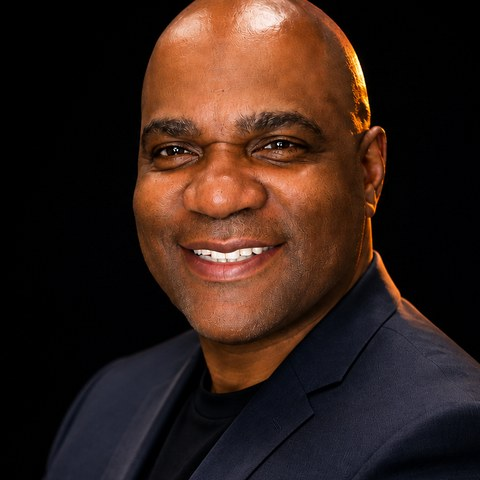
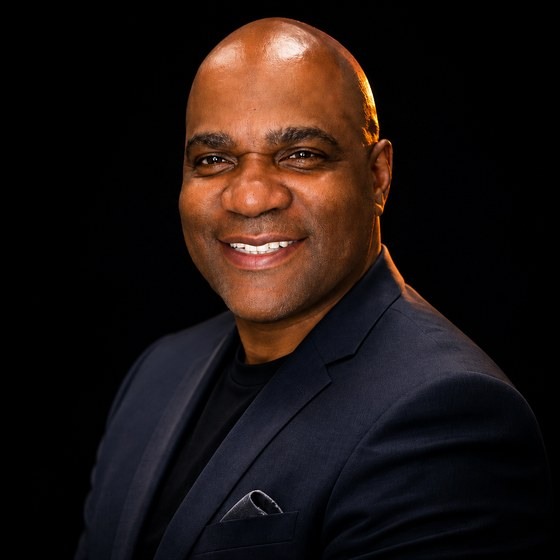
About: larger circle with the full head and shoulders inside it; new leadership overview
Claude-Session: https://claude.ai/code/session_01LsKsXLdSPECyPovwqmVun1

diff --git a/website/app/about/page.tsx b/website/app/about/page.tsx
@@ -70,7 +70,7 @@ export default function AboutPage() {
           <p className={EYEBROW}>Leadership</p>
           <div className="mt-6 flex max-w-[760px] flex-col items-start gap-6 rounded-[24px] sm:flex-row sm:items-center border border-line bg-white p-7">
             {FOUNDER.photo ? (
-              <img src={FOUNDER.photo} alt={FOUNDER.name} className="h-[150px] w-[150px] shrink-0 rounded-full object-cover md:h-[180px] md:w-[180px]" />
+              <img src={FOUNDER.photo} alt={FOUNDER.name} className="h-[170px] w-[170px] shrink-0 rounded-full bg-black object-cover md:h-[210px] md:w-[210px]" />
             ) : (
               <span aria-hidden="true" className="flex h-[88px] w-[88px] shrink-0 items-center justify-center rounded-full bg-ink font-display text-2xl font-bold text-white">
                 LB
@@ -79,7 +79,7 @@ export default function AboutPage() {
             <div className="min-w-0">
               <p className="text-[22px] font-bold">Lorenzo Bell Jr.</p>
               <p className="mt-0.5 text-base font-bold text-brand-text">Founder &amp; CEO</p>
-              <p className="mt-2 text-[17px] leading-relaxed text-ink-muted">25+ years developing, coaching and connecting suppliers and founders to global supply chains, while supporting their access to capital and investors. U.S. Navy veteran.</p>
+              <p className="mt-2 text-[17px] leading-relaxed text-ink-muted">Lorenzo Bell Jr. brings more than 25 years of experience leading supplier development and growth programs for Fortune 500 organizations. He specializes in coaching suppliers and founders, helping them build the capabilities to compete in global supply chains, enter new markets, and connect with investors and other sources of capital.</p>
             </div>
           </div>
         </section>
